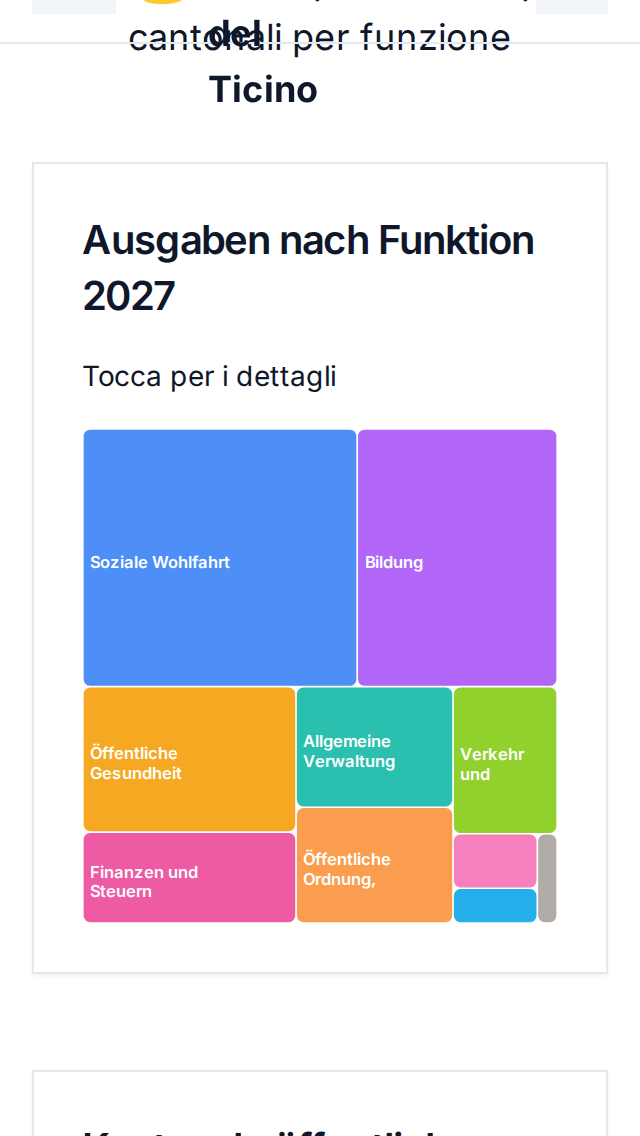
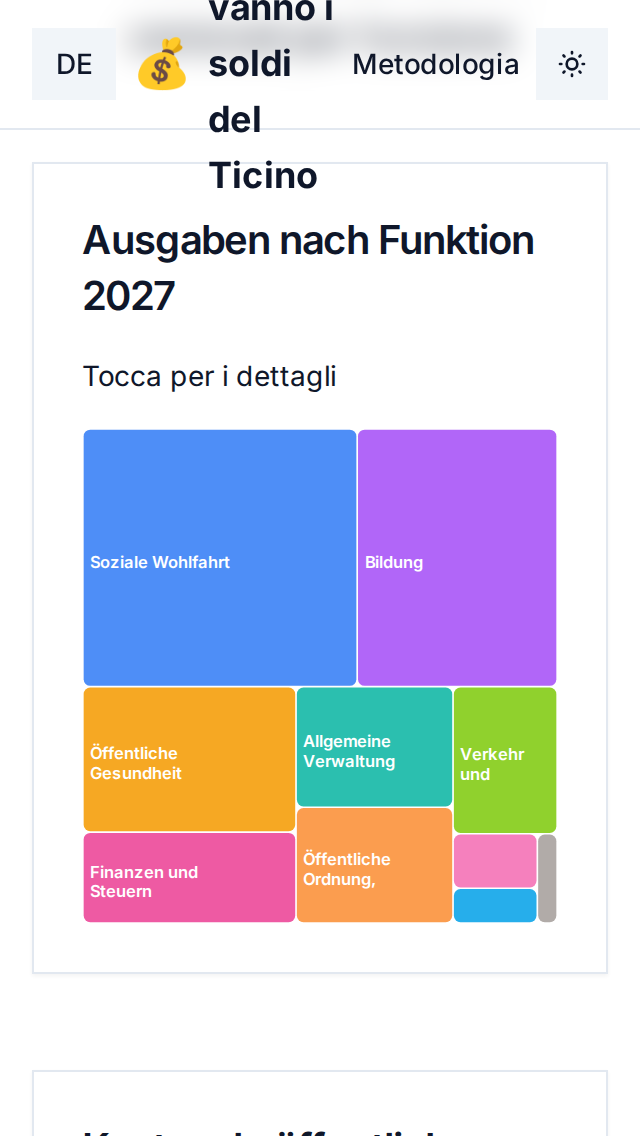
WIP Step B partial i18n: nav, hero, context, charts, data status, footer tagged (85 elements)

Changed region(s): [[0.1875, 0.0, 0.8125, 0.1849], [0.0938, 0.0308, 0.1562, 0.0616], [0.875, 0.0308, 0.9062, 0.0616]]

diff --git a/index.html b/index.html
@@ -15,10 +15,10 @@
       <div class="flex h-16 items-center justify-between">
         <div class="flex items-center gap-2">
           <span class="text-2xl">💰</span>
-          <span class="font-bold text-lg sm:text-xl">Dove vanno i soldi del Ticino</span>
+          <span class="font-bold text-lg sm:text-xl" data-i18n="nav.title">Dove vanno i soldi del Ticino</span>
         </div>
         <div class="flex items-center gap-2 sm:gap-4">
-          <a href="./metodologia.html" class="text-sm font-medium text-muted-foreground hover:text-foreground transition-colors">
+          <a href="./metodologia.html" class="text-sm font-medium text-muted-foreground hover:text-foreground transition-colors" data-i18n="nav.methodology">
             Metodologia
           </a>
           <button id="theme-toggle" class="btn btn-secondary h-9 w-9 p-0" aria-label="Toggle theme">
@@ -41,14 +41,14 @@
         <div class="mx-auto max-w-4xl text-center space-y-8">
           <div class="inline-flex items-center rounded-full border px-3 py-1 text-sm">
             <span class="mr-2">📊</span>
-            <span>Dati ufficiali aggiornati al 3 ottobre 2026</span>
+            <span data-i18n="hero.badge">Dati ufficiali aggiornati al 3 ottobre 2026</span>
           </div>
           
           <h1 class="text-4xl font-bold tracking-tight sm:text-5xl md:text-6xl lg:text-7xl text-balance">
-            Dove vanno i soldi del <span class="text-primary">Ticino</span>?
+            <span data-i18n="hero.title">Dove vanno i soldi del</span> <span class="text-primary" data-i18n="hero.titleHighlight">Ticino</span><span data-i18n="hero.titleQuestion">?</span>
           </h1>
           
-          <p class="mx-auto max-w-2xl text-lg sm:text-xl text-muted-foreground text-balance">
+          <p class="mx-auto max-w-2xl text-lg sm:text-xl text-muted-foreground text-balance" data-i18n="hero.subtitle">
             Trasparenza totale sulle finanze cantonali. Ogni dato verificato, ogni fonte citata, ogni numero tracciabile.
           </p>
 
@@ -56,29 +56,29 @@
           <div class="grid gap-4 sm:gap-6 grid-cols-1 sm:grid-cols-3 pt-8">
             <div class="metric-card group">
               <div class="flex items-center justify-between">
-                <div class="text-sm font-medium text-muted-foreground">Disavanzo 2027</div>
+                <div class="text-sm font-medium text-muted-foreground" data-i18n="hero.metrics.deficit.label">Disavanzo 2027</div>
                 <svg class="h-4 w-4 text-destructive" fill="none" viewBox="0 0 24 24" stroke="currentColor">
                   <path stroke-linecap="round" stroke-linejoin="round" stroke-width="2" d="M13 17h8m0 0V9m0 8l-8-8-4 4-6-6"></path>
                 </svg>
               </div>
-              <div class="text-3xl sm:text-4xl font-bold text-destructive">-98.5M</div>
-              <div class="text-xs text-muted-foreground">CHF -272 per abitante</div>
+              <div class="text-3xl sm:text-4xl font-bold text-destructive" data-i18n="hero.metrics.deficit.value">-98.5M</div>
+              <div class="text-xs text-muted-foreground" data-i18n="hero.metrics.deficit.sub">CHF -272 per abitante</div>
             </div>
 
             <div class="metric-card group">
               <div class="flex items-center justify-between">
-                <div class="text-sm font-medium text-muted-foreground">Debito pubblico</div>
+                <div class="text-sm font-medium text-muted-foreground" data-i18n="hero.metrics.debt.label">Debito pubblico</div>
                 <svg class="h-4 w-4 text-destructive" fill="none" viewBox="0 0 24 24" stroke="currentColor">
                   <path stroke-linecap="round" stroke-linejoin="round" stroke-width="2" d="M13 7h8m0 0v8m0-8l-8 8-4-4-6 6"></path>
                 </svg>
               </div>
-              <div class="text-3xl sm:text-4xl font-bold text-destructive">>3.0 Mia</div>
-              <div class="text-xs text-muted-foreground">+20% dal 2023</div>
+              <div class="text-3xl sm:text-4xl font-bold text-destructive" data-i18n="hero.metrics.debt.value">>3.0 Mia</div>
+              <div class="text-xs text-muted-foreground" data-i18n="hero.metrics.debt.sub">+20% dal 2023</div>
             </div>
 
             <div class="metric-card group">
               <div class="flex items-center justify-between">
-                <div class="text-sm font-medium text-muted-foreground">Premi più alti CH</div>
+                <div class="text-sm font-medium text-muted-foreground" data-i18n="hero.metrics.premiums.label">Premi più alti CH</div>
                 <svg class="h-4 w-4 text-destructive" fill="none" viewBox="0 0 24 24" stroke="currentColor">
                   <path stroke-linecap="round" stroke-linejoin="round" stroke-width="2" d="M12 9v2m0 4h.01m-6.938 4h13.856c1.54 0 2.502-1.667 1.732-3L13.732 4c-.77-1.333-2.694-1.333-3.464 0L3.34 16c-.77 1.333.192 3 1.732 3z"></path>
                 </svg>
@@ -127,8 +127,8 @@
     <section class="py-16 sm:py-24 bg-muted/30">
       <div class="container mx-auto px-4 sm:px-6 lg:px-8 space-y-12">
         <div class="text-center space-y-4">
-          <h2 class="text-3xl font-bold tracking-tight">Dove vanno i soldi?</h2>
-          <p class="text-lg text-muted-foreground max-w-2xl mx-auto">
+          <h2 class="text-3xl font-bold tracking-tight" data-i18n="charts.title">Dove vanno i soldi?</h2>
+          <p class="text-lg text-muted-foreground max-w-2xl mx-auto" data-i18n="charts.subtitle">
             Breakdown completo delle spese cantonali per funzione
           </p>
         </div>
@@ -548,12 +548,12 @@
     <div class="container mx-auto px-4 sm:px-6 lg:px-8">
       <div class="mx-auto max-w-3xl space-y-6 text-center">
         <div class="space-y-2">
-          <div class="text-lg font-semibold">Dove vanno i soldi del Ticino</div>
-          <p class="text-sm text-muted-foreground">
+          <div class="text-lg font-semibold" data-i18n="footer.title">Dove vanno i soldi del Ticino</div>
+          <p class="text-sm text-muted-foreground" data-i18n="footer.description">
             Un progetto di trasparenza finanziaria. Tutti i dati provengono da fonti ufficiali del Canton Ticino e della Confederazione Svizzera.
           </p>
         </div>
-        <div class="text-xs text-muted-foreground">
+        <div class="text-xs text-muted-foreground" data-i18n="footer.disclaimer">
           Questo sito è indipendente e non è affiliato al governo cantonale.
         </div>
       </div>
